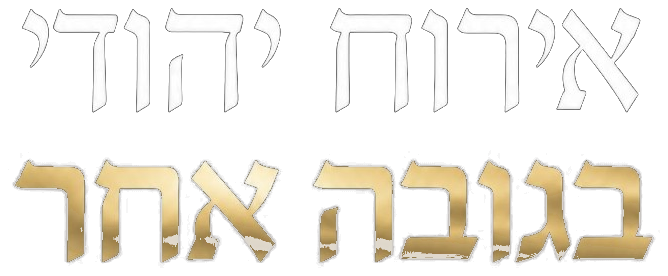
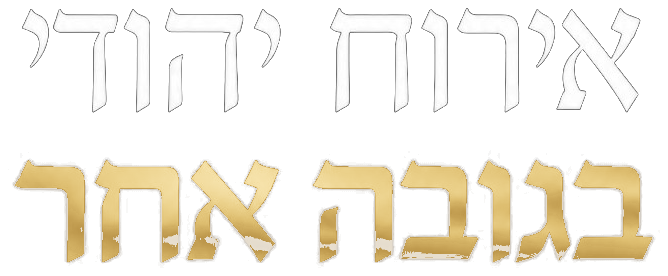
Refine hero gold title and equalize service cards
- Recolor the gold headline line to remove blown-out white highlights
- Make the three service cards a single uniform size (drop the stacking/scale effect)

diff --git a/src/sections/HospitalitySection.jsx b/src/sections/HospitalitySection.jsx
@@ -1,6 +1,4 @@
-import { useLayoutEffect, useRef } from "react";
 import SplitWords from "../components/ui/SplitWords.jsx";
-import { gsap, MOTION_OK } from "../motion/gsap.js";
 import eventsImage from "../assets/images/events.jpg";
 import shabbatImage from "../assets/images/shabbat.jpg";
 import deliveryImage from "../assets/images/delivery.jpg";
@@ -45,40 +43,9 @@ const cards = [
   },
 ];
 
-function useCardStack(rootRef) {
-  useLayoutEffect(() => {
-    const root = rootRef.current;
-    const mm = gsap.matchMedia(root);
-
-    mm.add(MOTION_OK, () => {
-      const items = gsap.utils.toArray(".hospitality__stack-item", root);
-      items.slice(0, -1).forEach((item, index) => {
-        const next = items[index + 1];
-        const card = item.querySelector(".service-card");
-        const dim = item.querySelector(".service-card__dim");
-        const scrollTrigger = {
-          trigger: next,
-          start: "top bottom",
-          end: () => `top ${parseFloat(getComputedStyle(next).top) || 0}px`,
-          scrub: true,
-          invalidateOnRefresh: true,
-        };
-        gsap.to(card, { scale: 0.92, ease: "none", scrollTrigger });
-        gsap.to(dim, { opacity: 0.6, ease: "none", scrollTrigger: { ...scrollTrigger } });
-      });
-    });
-
-    return () => mm.revert();
-  }, [rootRef]);
-}
-
 export default function HospitalitySection() {
-  const rootRef = useRef(null);
-  useCardStack(rootRef);
-
   return (
     <section
-      ref={rootRef}
       id="services"
       className="hospitality"
       aria-labelledby="hospitality-title"
@@ -99,13 +66,7 @@ export default function HospitalitySection() {
 
         <div className="hospitality__cards">
           {cards.map((card, index) => (
-            <div
-              className="hospitality__stack-item"
-              key={card.title}
-              style={{ "--stack-index": index }}
-            >
-              <ServiceCard index={index} featured={index === 0} {...card} />
-            </div>
+            <ServiceCard key={card.title} index={index} {...card} />
           ))}
         </div>
       </div>

diff --git a/src/sections/hospitality.css b/src/sections/hospitality.css
@@ -49,42 +49,22 @@
   margin-top: clamp(1.6rem, 5.5vw, 2rem);
 }
 
-.hospitality__stack-item {
-  position: sticky;
-  top: calc(5.25rem + var(--stack-index) * 0.7rem);
-}
-
 .service-card {
   position: relative;
   display: block;
-  min-height: 12.35rem;
+  min-height: 12.75rem;
   overflow: hidden;
   border: 1px solid rgb(190 170 140 / 0.4);
   border-radius: 1.15rem;
   background: #0c0b0a;
   color: inherit;
   text-decoration: none;
-  transform-origin: 50% 0%;
   -webkit-tap-highlight-color: transparent;
-}
-
-.service-card--featured,
-.service-card--featured .service-card__body {
-  min-height: 15rem;
 }
 
 .service-card:focus-visible {
   outline: 1px solid #cbb892;
   outline-offset: 3px;
-}
-
-.service-card__dim {
-  position: absolute;
-  inset: 0;
-  z-index: 2;
-  background: #0c0b0a;
-  opacity: 0;
-  pointer-events: none;
 }
 
 .service-card__index {
@@ -123,7 +103,7 @@
   flex-direction: column;
   align-items: flex-start;
   max-width: 74%;
-  min-height: 12.35rem;
+  min-height: 12.75rem;
   padding: 1.15rem 0 1rem 1.1rem;
   text-align: left;
 }

diff --git a/src/sections/ServiceCard.jsx b/src/sections/ServiceCard.jsx
@@ -9,22 +9,15 @@ export default function ServiceCard({
   image,
   alt,
   imagePosition,
-  featured = false,
 }) {
   return (
-    <Link
-      to={href}
-      className={`service-card${featured ? " service-card--featured" : ""}`}
-      dir="ltr"
-      data-image-reveal
-    >
+    <Link to={href} className="service-card" dir="ltr" data-image-reveal>
       <img
         src={image}
         alt={alt}
         style={{ objectPosition: imagePosition }}
       />
       <div className="service-card__shade" aria-hidden="true" />
-      <div className="service-card__dim" aria-hidden="true" />
       <div className="service-card__body">
         <span className="service-card__index" aria-hidden="true">
           {String(index + 1).padStart(2, "0")}
